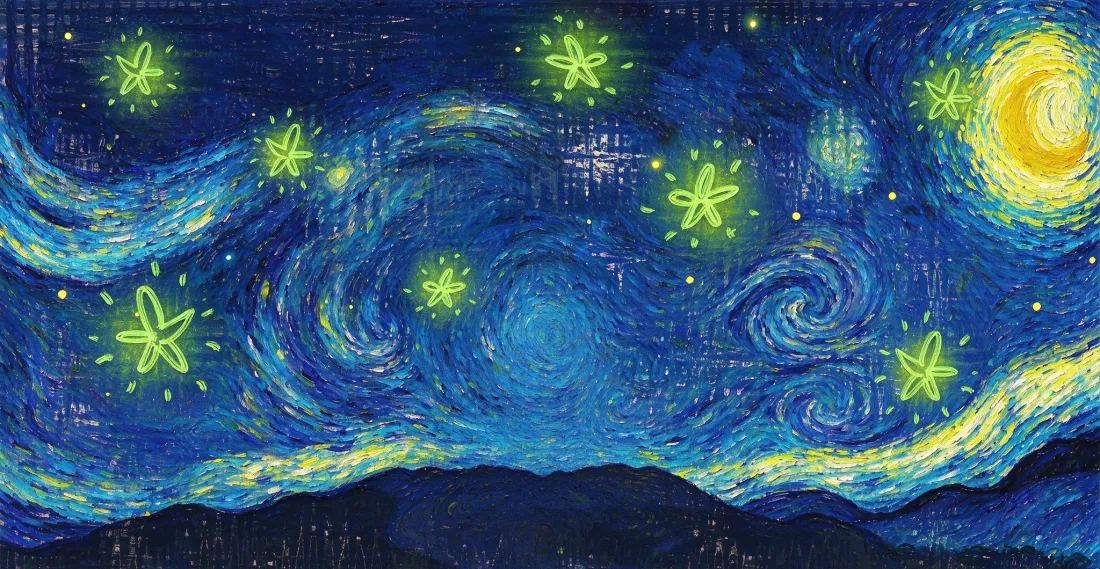
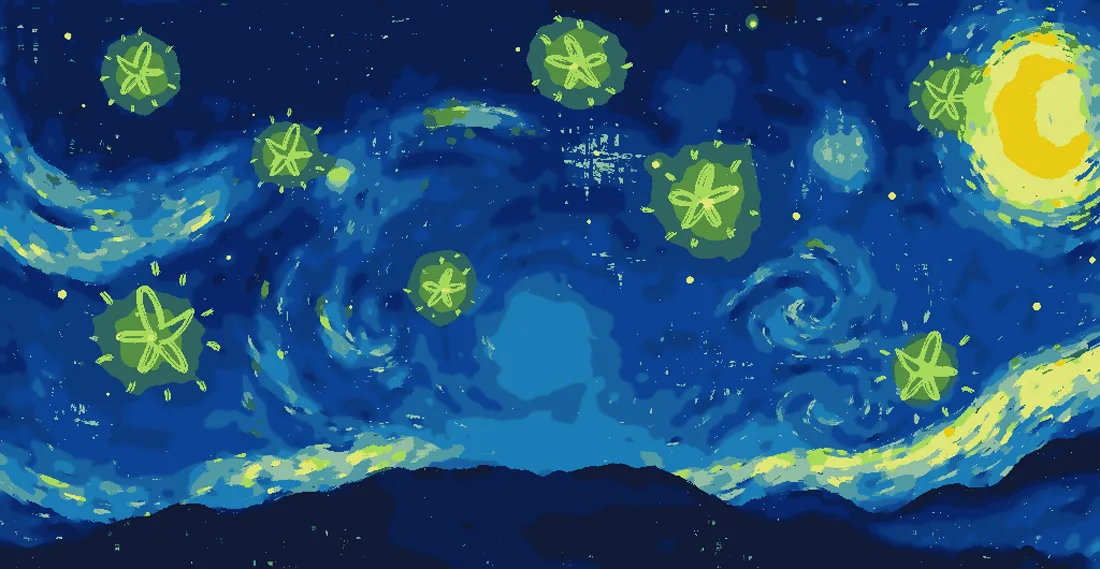
style(site): 背景转卡通风并加亚克力质感（白色描边/内高光/斜向反光）

diff --git a/site/docs/.vitepress/theme/components/FluidTank.vue b/site/docs/.vitepress/theme/components/FluidTank.vue
@@ -657,7 +657,14 @@ function setup(canvas: HTMLCanvasElement, host: HTMLElement) {
       const s = Math.max(W / bg.width, H / bg.height)
       const dw = bg.width * s
       const dh = bg.height * s
+      // 轻微模糊 + 半透明 = 亚克力（隔着板子看画）
+      ctx.save()
+      ctx.filter = 'saturate(1.08)'
+      ctx.globalAlpha = 0.95
       ctx.drawImage(bg, (W - dw) / 2, (H - dh) / 2, dw, dh)
+      ctx.restore()
+      ctx.fillStyle = 'rgba(255, 255, 255, 0.1)'
+      ctx.fillRect(0, 0, W, H)
       const shade = ctx.createLinearGradient(0, H * 0.4, 0, H)
       shade.addColorStop(0, 'rgba(4, 10, 26, 0)')
       shade.addColorStop(1, 'rgba(4, 10, 26, 0.6)')
@@ -1020,10 +1027,35 @@ function setup(canvas: HTMLCanvasElement, host: HTMLElement) {
   margin: 18px 0 8px;
   border-radius: 18px;
   overflow: hidden;
-  background: #07101f;
-  border: 1px solid rgba(120, 170, 255, 0.18);
-  box-shadow: 0 24px 60px -40px rgba(20, 70, 180, 0.9);
+  background: #0a1a34;
+  border: 1px solid rgba(255, 255, 255, 0.4);
+  box-shadow:
+    0 26px 60px -34px rgba(24, 64, 150, 0.45),
+    0 0 0 6px rgba(255, 255, 255, 0.45),
+    inset 0 20px 44px -28px rgba(255, 255, 255, 0.55),
+    inset 0 -26px 54px -32px rgba(6, 16, 40, 0.55);
   touch-action: none;
+}
+
+/* 亚克力表面的那层斜光 */
+.fluid-tank::after {
+  content: '';
+  position: absolute;
+  inset: 0;
+  pointer-events: none;
+  border-radius: inherit;
+  background:
+    linear-gradient(
+      155deg,
+      rgba(255, 255, 255, 0.24) 0%,
+      rgba(255, 255, 255, 0.06) 26%,
+      rgba(255, 255, 255, 0) 44%
+    ),
+    radial-gradient(
+      120% 90% at 15% -25%,
+      rgba(255, 255, 255, 0.16),
+      rgba(255, 255, 255, 0) 62%
+    );
 }
 
 .fluid-tank__canvas {
